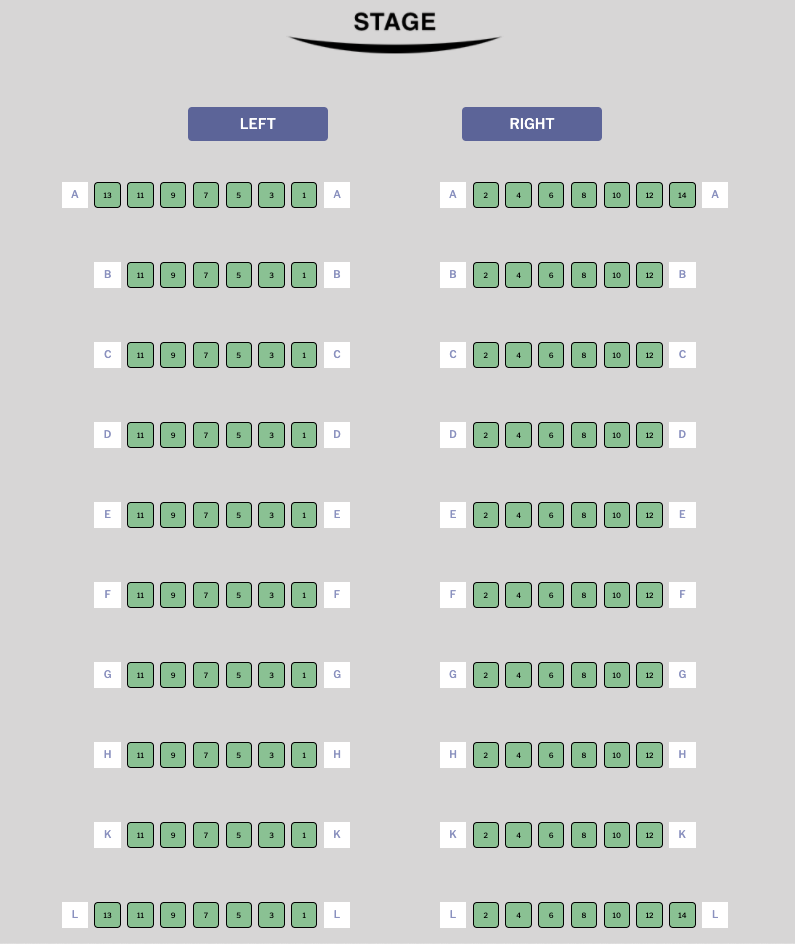
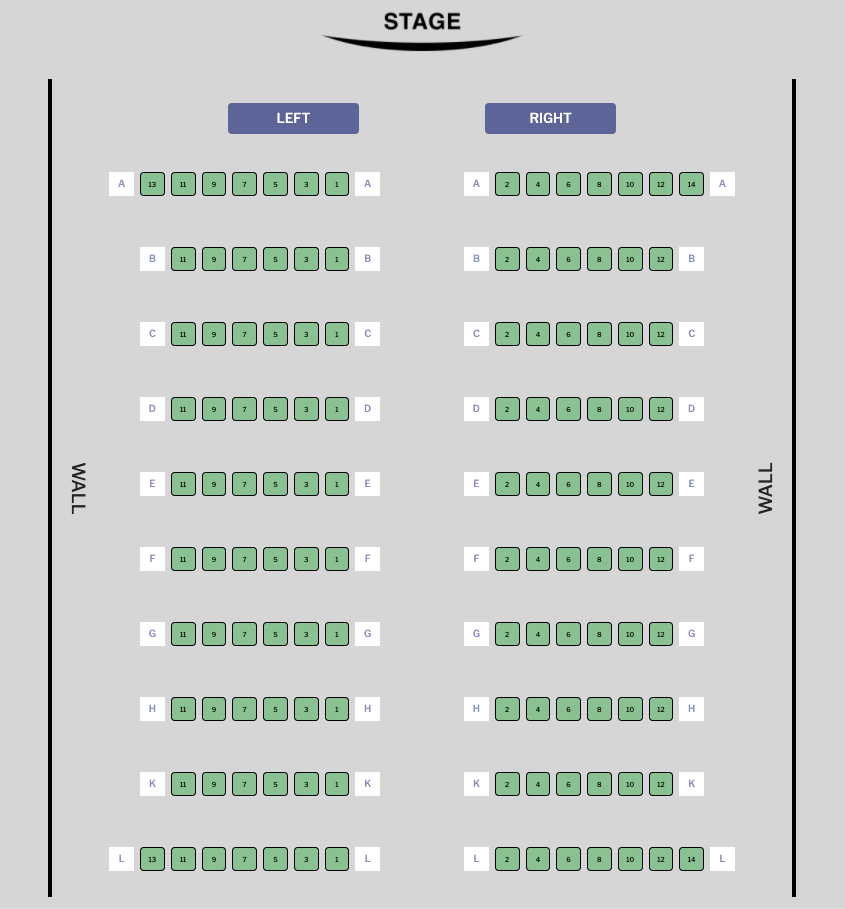
new venue

diff --git a/Completed/28129.html b/Completed/28129.html
@@ -1,0 +1,63 @@
+<!-- Lakewood Performing Arts Center -->
+<table width="100%" border="0" cellspacing="0" cellpadding="0" align="center">
+  <!-- Stage Image -->
+  <tr> 
+    <td>
+      <div align="center">
+        <img src="https://s3.amazonaws.com/prdv2-dt-client/seating_images/stage.png" alt="STAGE" width="300" height="80">
+      </div>
+     </td>
+  </tr>
+
+  <tr>
+    <td>
+      <div align="center">
+        <img src="https://s3.amazonaws.com/prdv2-dt-client/seating_images/pixel.png" width="35" height="35">
+      </div>
+    </td>
+  </tr>
+
+  <!-- FRONT -->
+  <tr>
+    <td>
+      <div align="center">
+        <table align="center">
+          <!-- Front Seats -->
+          <tr>
+            <td>
+              <div align="center">
+                {{{ sectionsMarkup.39471 }}}
+              </div>
+            </td>
+          </tr>
+        </table>
+      </div>
+    </td>
+  </tr>
+
+  <tr>
+    <td>
+      <div align="center">
+        <img src="https://s3.amazonaws.com/prdv2-dt-client/seating_images/pixel.png" width="75" height="75">
+      </div>
+    </td>
+  </tr>
+
+  <!-- BACK -->
+  <tr>
+    <td>
+      <div align="center">
+        <table align="center">
+          <!-- Back Seats -->
+          <tr>
+            <td>
+              <div align="center">
+                {{{ sectionsMarkup.39472 }}}
+              </div>
+            </td>
+          </tr>
+        </table>
+      </div>
+    </td>
+  </tr>
+</table>

diff --git a/Completed/28087.html b/Completed/28087.html
@@ -1,5 +1,10 @@
 <!-- The Playhouse at Museum Village -->
 <style>
+  .border-walls {
+    border-left: 5px solid black;
+    border-right: 5px solid black;
+  }
+
   .space-out > #seat-map > table > tbody > tr {
     height: 100px;
   }
@@ -27,9 +32,14 @@
   <tr>
     <td>
       <div align="center">
-        <table align="center">
+        <table align="center" class="border-walls">
           <!-- Names -->
-          <tr> 
+          <tr>
+            <td rowspan="3" valign="center">
+              <div align="center" class="adjust rotate90R" style="font-size: 24px;">
+                WALL
+              </div>
+            </td>
             <td>
               <div align="right">
                 {{{ sectionNames.39435 }}}
@@ -43,6 +53,11 @@
             <td>
               <div align="left">
                 {{{ sectionNames.39436 }}}
+              </div>
+            </td>
+            <td rowspan="3" valign="center">
+              <div align="center"  class="adjust rotate90L" style="font-size: 24px;">
+                WALL
               </div>
             </td>
           </tr>
